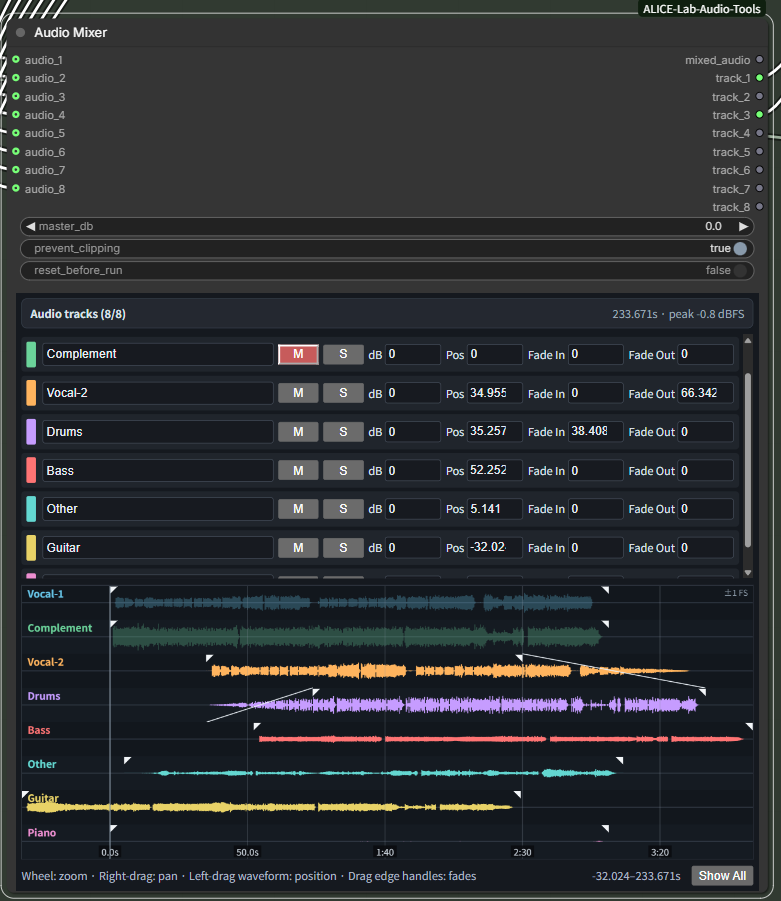
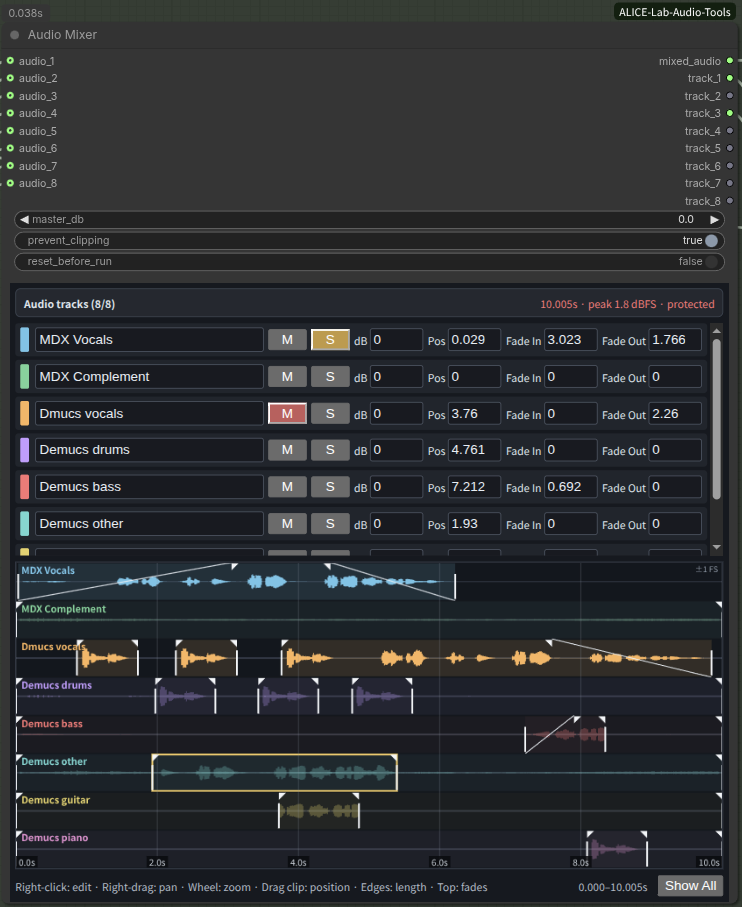
Update audio mixer documentation
- Refresh the Audio Mixer feature summary in English and Japanese.
- Replace the Mixer screenshot with the multi-clip editing view.

Changed region(s): [[0.0, 0.0, 1.0, 1.0], [0.8059, 0.0, 0.9919, 0.0311]]

diff --git a/README.md b/README.md
@@ -23,7 +23,7 @@ ComfyUI ALICE Lab Audio Tools is a collection of custom nodes for selecting medi
 | Media | `Load Media Range (Upload)` | Load media from your local device, select an A-B range while viewing its waveform, and output the selected range as `AUDIO` and `VIDEO`. |
 | Media | `Load Media Range (Path)` | Open media directly from an absolute path, select an A-B range while viewing its waveform, and output the selected range as `AUDIO` and `VIDEO`. |
 | Media | `Media Range (Input)` | Preview upstream `AUDIO` or `VIDEO`, select an A-B range from its waveform, and pass the selected range downstream. |
-| Audio | `Audio Mixer` | Arrange and mix up to eight audio tracks with non-destructive clip resizing, silent extension, per-clip editing, and waveform previews. |
+| Audio | `Audio Mixer` | Arrange and mix up to eight tracks with waveform previews, clip resizing, and per-clip copy, paste, cut, delete, and duplicate operations across tracks. |
 | Audio | `Compare Audio` | Compare two waveforms, automatically correct their time difference, and output aligned audio, difference audio, similarity, and delay. |
 | Audio | `Audio Spectrogram` | Inspect the frequency content of audio as a dBFS spectrogram and output the graph as an `IMAGE`. |
 | Audio | `Audio to Irodori Ref Config` | Convert `AUDIO` to the `IRODORI_REF_CONFIG` used by comfy-Irodori-TTS reference audio input. |

diff --git a/README_jp.md b/README_jp.md
@@ -23,7 +23,7 @@ ComfyUI ALICE Lab Audio Toolsは、メディア範囲の選択、音声の編集
 | Media | `Load Media Range (Upload)` | ローカルメディアをアップロードし、波形を見ながらA-B範囲を選んで`AUDIO`と`VIDEO`を出力します。 |
 | Media | `Load Media Range (Path)` | 絶対パスのメディアを開き、A-B範囲を選んで`AUDIO`と`VIDEO`を出力します。 |
 | Media | `Media Range (Input)` | 上流の`AUDIO`または`VIDEO`をプレビューし、選択範囲を下流へ渡します。 |
-| Audio | `Audio Mixer` | 最大8トラックを、非破壊のクリップ長変更、無音延長、クリップ単位の編集、波形表示を使って配置・ミックスします。 |
+| Audio | `Audio Mixer` | 最大8トラック。クリップ長の変更、クリップ単位でのコピー、ペースト、切り取り、削除、複製（トラック間にも対応）。波形表示を使って配置・ミックスします。 |
 | Audio | `Compare Audio` | 2つの音声を自動整列し、差分、類似度、遅延を出力します。 |
 | Audio | `Audio Spectrogram` | dBFSスペクトログラムを表示し、`IMAGE`として出力します。 |
 | Audio | `Audio to Irodori Ref Config` | `AUDIO`をcomfy-Irodori-TTSの参照音声用`IRODORI_REF_CONFIG`へ変換します。 |
